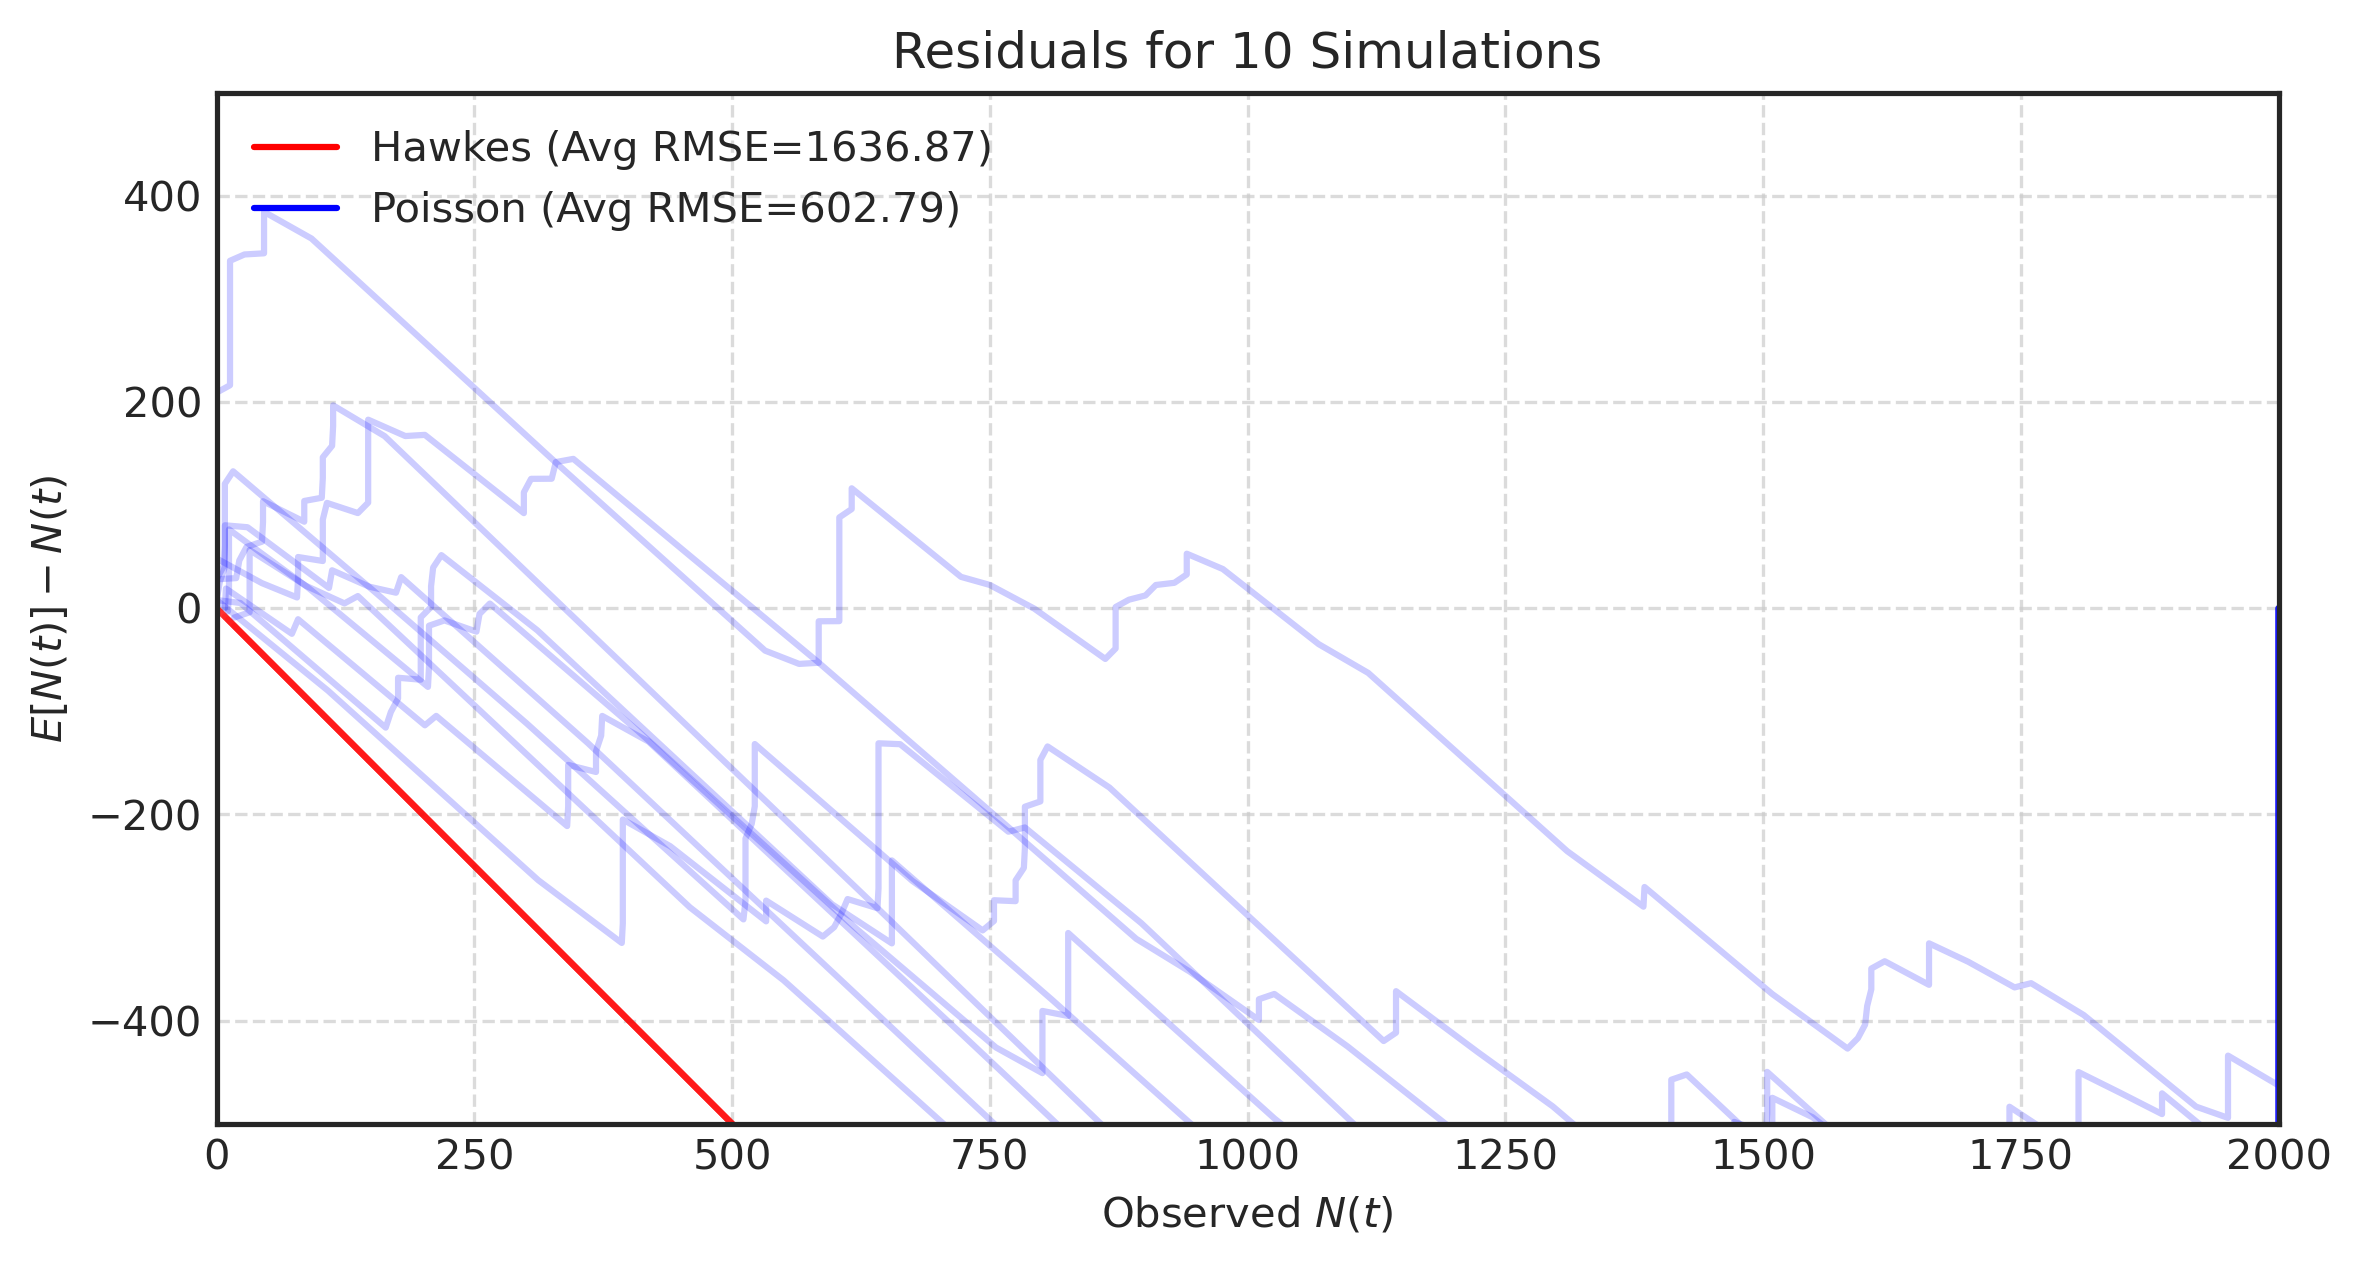
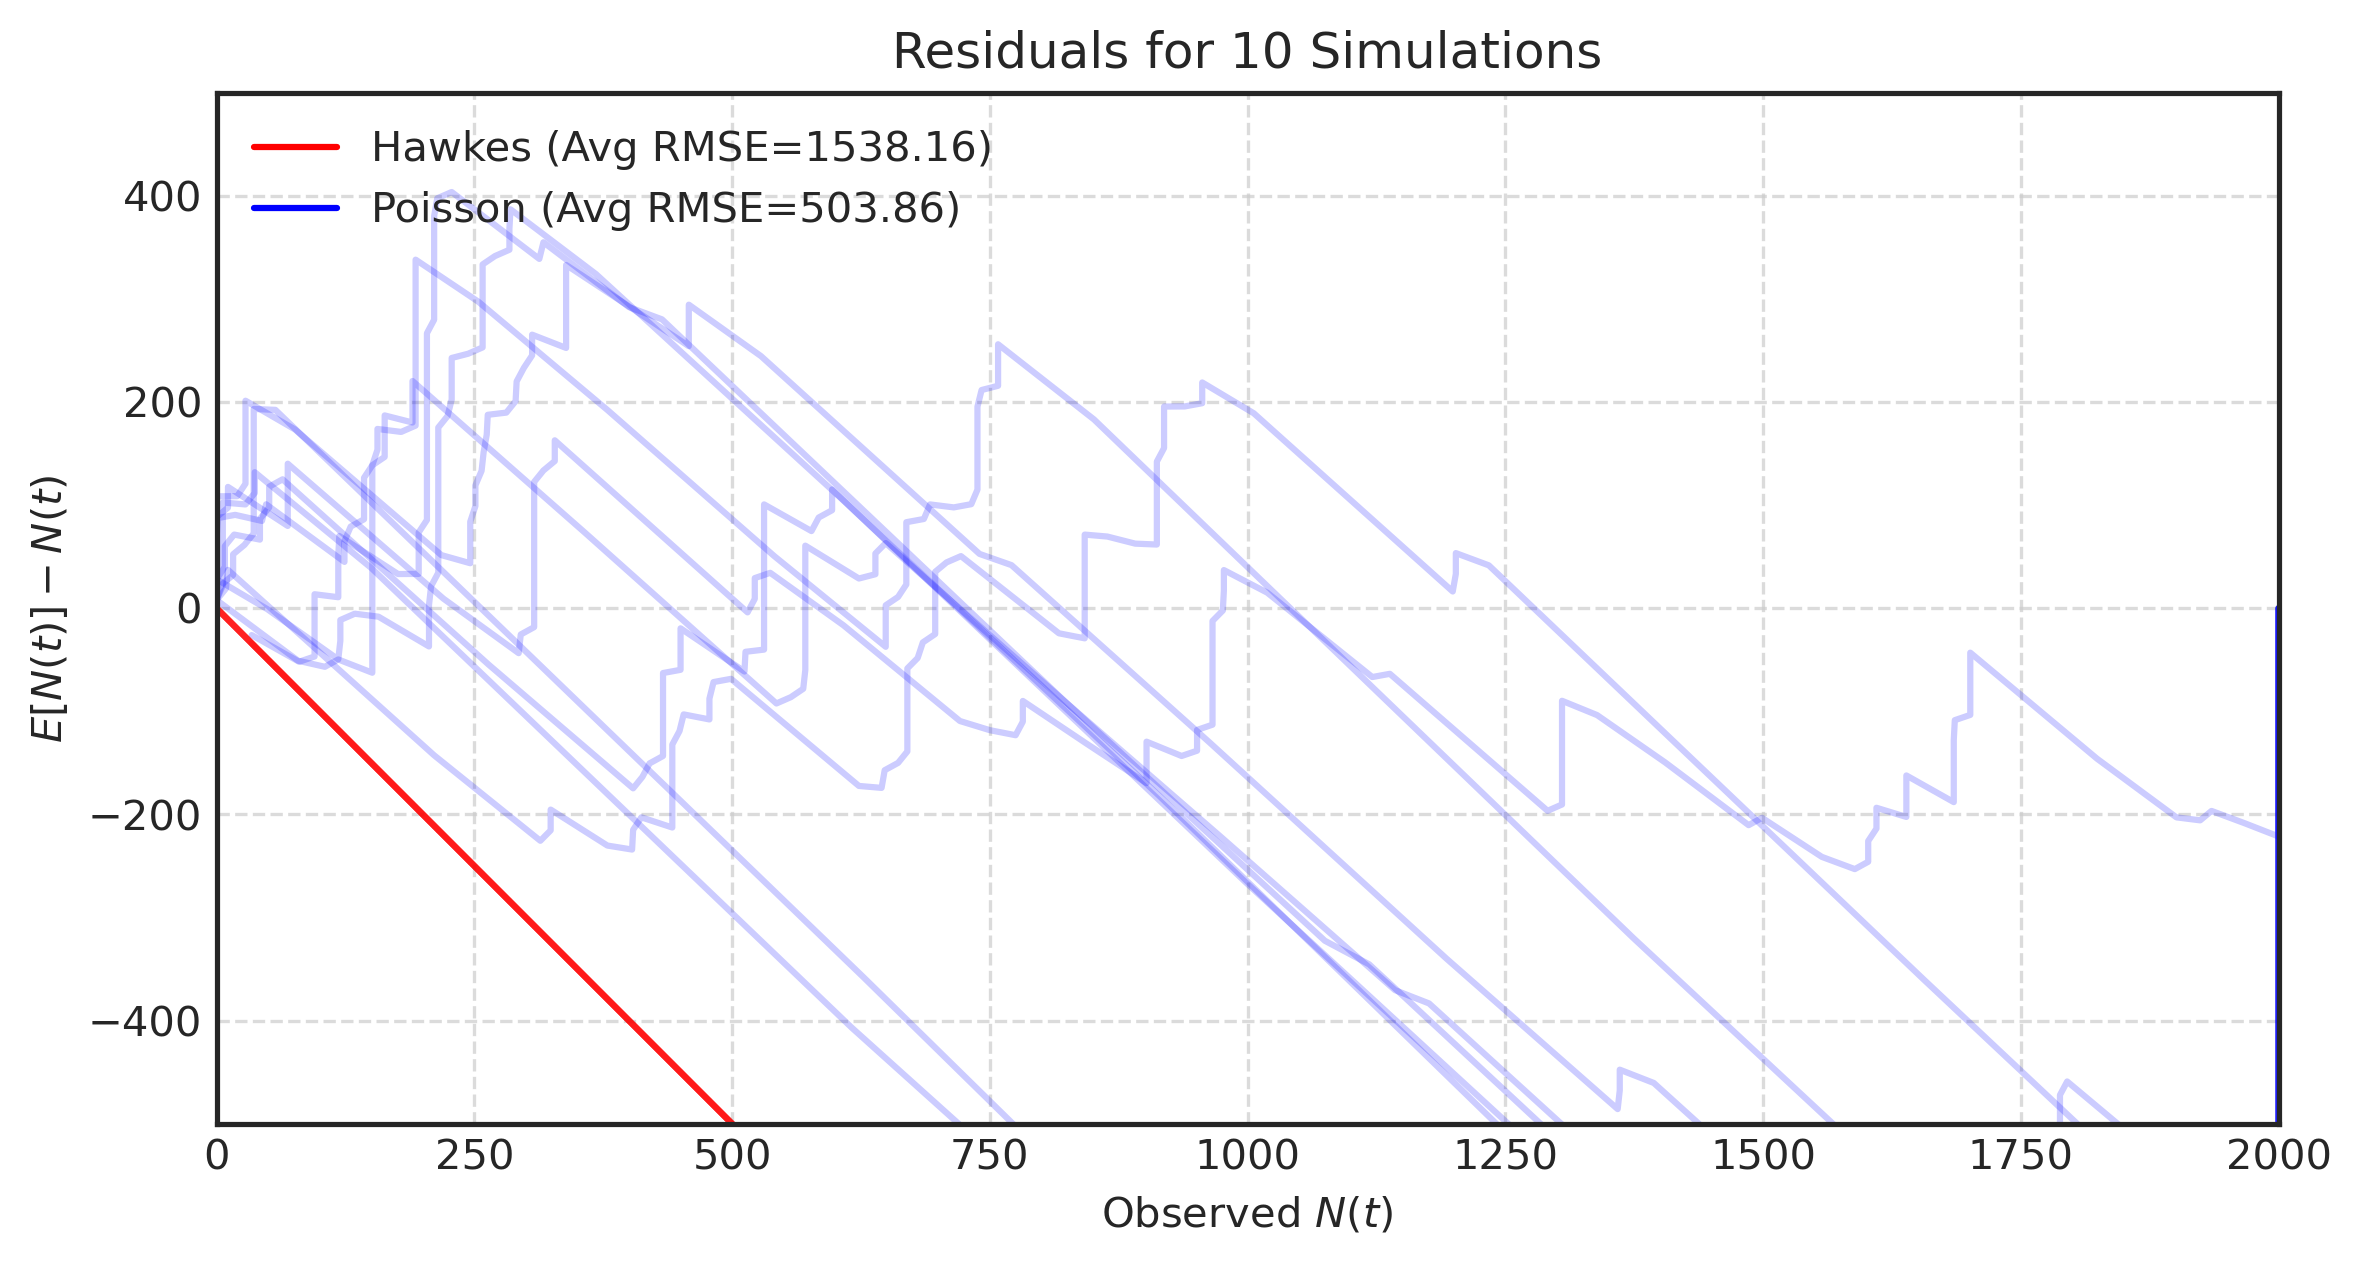
revert "tried chain rule"
This reverts commit 0f5bf79688fe092129e4dffc7bf5609de1776c93.

diff --git a/src/hawkes/models/hawkes_base.py b/src/hawkes/models/hawkes_base.py
@@ -15,7 +15,6 @@ class HawkesNLL(torch.autograd.Function):
         mu: torch.Tensor,
         alpha: torch.Tensor,
         gamma: torch.Tensor,
-        transformation: config.Transformation,
         intensity_fun: typing.Callable,
         integrated_intensity_fun: typing.Callable,
         M: int,
@@ -73,9 +72,8 @@ class HawkesNLL(torch.autograd.Function):
             nll_neg_logsum -= torch.sum(torch.log(batch_intensity))
             intensity[batch_start : (batch_start + Nb)] = batch_intensity.squeeze()
 
-        ctx.trans = transformation
         ctx.M, ctx.K, ctx.T = M, K, T
-        ctx.save_for_backward(intensity, mu, alpha, gamma, ti, mi)
+        ctx.save_for_backward(intensity, gamma, ti, mi)
 
         return (nll_neg_logsum + nll_int) / N
 
@@ -95,7 +93,6 @@ class HawkesBase(torch.nn.Module, ABC):
         M: int,
         K: int,
         nll_function: HawkesNLL,
-        transformation: config.Transformation,
         device="cpu",
         debug_config=config.HawkesDebugConfig(),
     ):
@@ -111,7 +108,6 @@ class HawkesBase(torch.nn.Module, ABC):
         self.M = M
         self.K = K
         self._nll_function = nll_function
-        self._transformation = transformation
 
         self.device = device
         self.debug_config = debug_config
@@ -270,8 +266,7 @@ class HawkesBase(torch.nn.Module, ABC):
 
             # Calculate NLL across entire data and perform the backward pass
             nll = self.nll(T, ti, mi)
-            nll.backward()
-            # nll = self._compute_nll(
+            # nll_old = self._compute_nll(
             #     T, ti, mi, batch_size=fit_config.batch_size, compute_backward=True
             # )
             # assert torch.all(torch.isclose(nll, nll_old))
@@ -293,17 +288,14 @@ class HawkesBase(torch.nn.Module, ABC):
             else:
                 nuclear_norm = 0
 
-            (l1 + nuclear_norm).backward()
             loss = nll + l1 + nuclear_norm
-            # loss.backward()
+            loss.backward()
 
             # Check for NaN gradients
             for n, p in self.named_parameters():
-                # self.logger.error(f"Gradient of {n} is {p.grad}")
                 if torch.isnan(p.grad).any():
                     self.logger.error(f"Gradient of {n} is nan at epoch {epoch + 1}")
                     raise ValueError(f"Gradient of {n} is nan")
-            # exit(1)  # DEBUG: remove this
 
             optimizer.step()
             losses.append(loss.item())
@@ -373,7 +365,6 @@ class HawkesBase(torch.nn.Module, ABC):
             self.mu,
             self.alpha,
             self.gamma,
-            self._transformation,
             self.intensity_at_events,
             self.integrated_intensity,
             self.M,

diff --git a/src/hawkes/models/hawkes_full_rank.py b/src/hawkes/models/hawkes_full_rank.py
@@ -14,7 +14,7 @@ class HawkesFullRankNLL(HawkesNLL):
         # TODO: replace this with argument to forward pass and accomodate parametrized gamma in gradient
         GAMMA_PARAM = False
 
-        intensity, mu, alpha, gamma, ti, mi = ctx.saved_tensors
+        intensity, gamma, ti, mi = ctx.saved_tensors
         M, K, T = ctx.M, ctx.K, ctx.T
 
         dti = ti - torch.cat([ti[:, 0:1, :], ti[:, 0:-1, :]], dim=1)  # Shape: [1, N, 1]
@@ -59,15 +59,11 @@ class HawkesFullRankNLL(HawkesNLL):
 
         # Compute mu gradient; only depends on each node type's intensity
         mu_grad = (
-            (
-                torch.tensor(
-                    [λp.reciprocal().sum() for λp in intensity_split], device=ti.device
-                )
-                - T
+            torch.tensor(
+                [λp.reciprocal().sum() for λp in intensity_split], device=ti.device
             )
-            * ctx.trans.derivative(ctx.trans.inverse(mu))
-            * grad_output
-        )
+            - T
+        )  # Shape: [M]
 
         # Compute alpha gradient components using intensity and prefix matrices
         intensity_state_sum = torch.stack(
@@ -81,15 +77,15 @@ class HawkesFullRankNLL(HawkesNLL):
             [-torch.expm1(-gamma * (T - tiq)).sum(dim=1) for tiq in ti_split],
             dim=1,
         )  # Shape: [1, M, K]
-
-        alpha_grad = (
-            (intensity_state_sum - exp_decay_sum).permute(2, 0, 1)
-            * ctx.trans.derivative(ctx.trans.inverse(alpha))
-            * grad_output
-        )
+        alpha_grad = (intensity_state_sum - exp_decay_sum).permute(2, 0, 1)
         gamma_grad = None  # * grad_output
 
-        return (None, alpha_grad, mu_grad, gamma_grad) + (None,) * 7
+        return (
+            None,
+            alpha_grad * grad_output,
+            mu_grad * grad_output,
+            gamma_grad,
+        ) + (None,) * 6
 
 
 class HawkesFullRank(HawkesBase):
@@ -124,7 +120,6 @@ class HawkesFullRank(HawkesBase):
             M,
             K,
             nll_function=HawkesFullRankNLL,
-            transformation=transformation,
             device=self.device,
             debug_config=debug_config,
         )

diff --git a/src/hawkes/utils/config.py b/src/hawkes/utils/config.py
@@ -51,27 +51,19 @@ class Transformation:
     Attributes:
         forward: The vectorized transformation function
         inverse: The vectorized inverse of the transformation
-        derivative: The vectorized derivative of the transformation
     """
 
     forward: Callable[[torch.Tensor], torch.Tensor]
     inverse: Callable[[torch.Tensor], torch.Tensor]
-    derivative: Callable[[torch.Tensor], torch.Tensor]
 
 
-def _softplus_inv(x):
-    """Numerically stable softplus inverse that uses a linear approximation for large x"""
+def _softplus_inv(y):
+    """Numerically stable softplus inverse that uses a linear approximation for large y"""
+    return torch.where(y > 20, y, torch.log(torch.expm1(y)))
 
-    return torch.where(x > 20, x, x + torch.log(-torch.expm1(-x)))
 
-
-EXP = Transformation(
-    forward=torch.exp,
-    inverse=torch.log,
-    derivative=torch.exp,
-)
+EXP = Transformation(forward=torch.exp, inverse=torch.log)
 SOFTPLUS = Transformation(
     forward=torch.nn.functional.softplus,
     inverse=_softplus_inv,
-    derivative=torch.sigmoid,
 )
